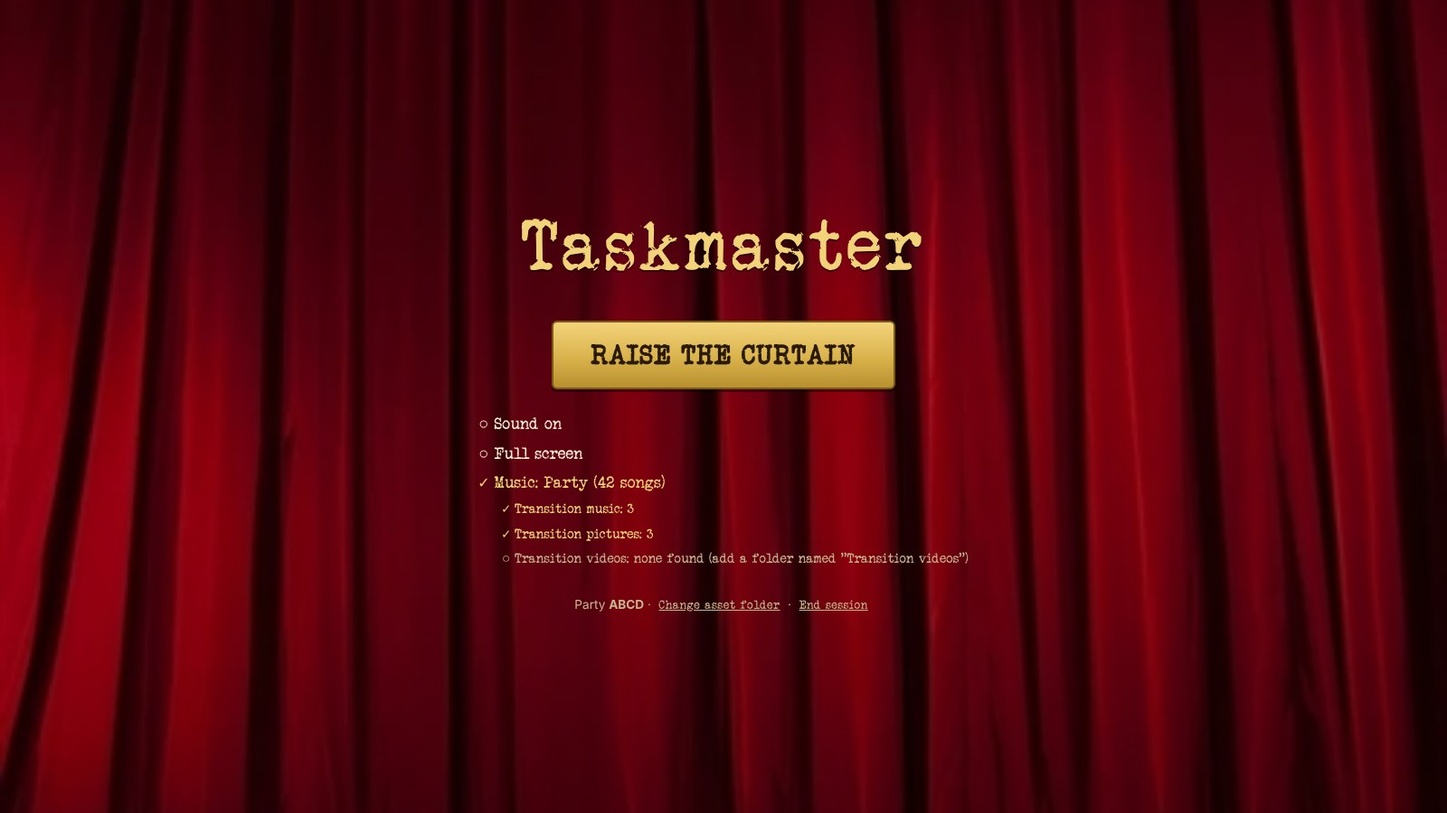
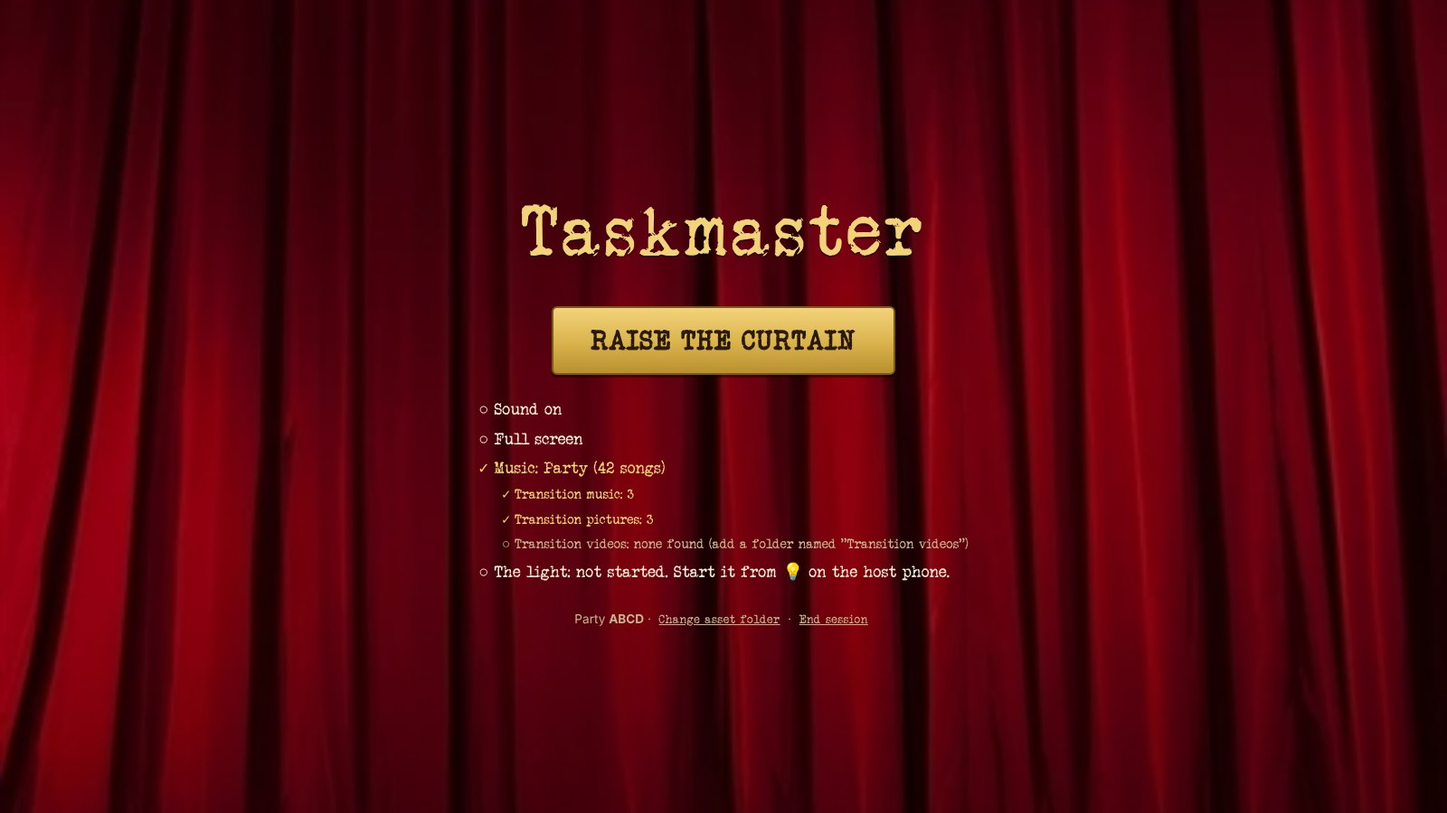
Show the light on Raise the curtain, and let the big screen take over from a closed /light page
- Raise the curtain gets a line for the light at every party: running here (with its
  camera and lamp), on another computer, what's wrong, or not started. It never holds
  up the curtain.
- A /light page that held the light and was closed without Stop left the phone saying
  "the light computer isn't responding", with no way to start it on the big screen.
  Now it says the page has closed and offers "Run it on the big screen instead" (no
  switch or test until then).
- The big screen reports the picked camera's name while the camera is off, so the
  ready line and the gate name it before the light first goes on.
- Start always opens the checklist on the camera step (it could open on the lamp step
  after an earlier "fix it here").
- light-test.mjs covers the left-over case; screenshots and docs.

Claude-Session: https://claude.ai/code/session_01Qb5bZeRA8brS67vtHnPicD

Changed region(s): [[0.3125, 0.3733, 0.6875, 0.7778], [0.3438, 0.2489, 0.6562, 0.3422]]

diff --git a/docs/guest-shots/shots.tsx b/docs/guest-shots/shots.tsx
@@ -197,8 +197,13 @@ function build() {
       break;
     // Up next is a live task that opens with a sting: tasks 1 to 5 scored, the main screen's Transitions list published.
     // The gate after a refresh mid-party, the music folder (Party) already allowed: songs and each transition folder counted.
-    case "tv-gate": {
+    case "tv-gate": case "tv-gate-light": {
       picked(); set("begun", true); set("controllerUid", "host");
+      // The light started from the phone earlier, so the gate says it's running here.
+      if (shot === "tv-gate-light") {
+        set("lightUid", "owner");
+        set("light", { onStage: true, camera: { off: true }, stage: { cameras: [{ id: "c920", label: "Logitech C920" }], cameraId: "c920", hue: { bridge: "192.168.1.50", lamps: [{ id: "1", name: "Living room", color: true }], chosen: { 1: true } } } });
+      }
       const dir = { kind: "directory", name: "Party", values: async function* () {}, queryPermission: async () => "granted" };
       if (!("showDirectoryPicker" in window)) (window as unknown as Record<string, unknown>).showDirectoryPicker = () => Promise.resolve(dir);
       const get = IDBObjectStore.prototype.get;
@@ -338,9 +343,11 @@ function build() {
       set("light", { armed: true, trigger: "stop-smiling", litAt: 1, got: { sam: 1, priya: 2 }, camera: { people: 6, each: { "stop-smiling": 2 } } });
       break;
     // The light run by the big screen, set up from the host's 💡 page: not started, the camera and lamp checklist, then ready.
-    case "host-light-start": case "host-light-camera": case "host-light-lamp": case "host-light-ready": case "host-light-flash": case "host-light-trouble": case "host-light-trouble-fix":
+    case "host-light-start": case "host-light-camera": case "host-light-lamp": case "host-light-ready": case "host-light-flash": case "host-light-trouble": case "host-light-trouble-fix": case "host-light-left-over":
       picked(); set("begun", true);
       if (shot === "host-light-start") break;
+      // A /light page ran the light earlier and was closed without Stop: its slot is left, with no camera status.
+      if (shot === "host-light-left-over") { set("lightUid", "old-pc"); set("light", { trigger: "stop-smiling" }); break; }
       const trouble = shot.startsWith("host-light-trouble");
       set("lightUid", "owner");
       set("light", {
@@ -412,5 +419,5 @@ const allBulbs = MODES.find((m) => m.id === "all")!.bulbs;
 if (shot === "host-light-flash") window.setTimeout(() => void lightNow(CODE), 1200);
 root.render(shot === "tv-light" ? <main className="stage light-stage"><div className="light-show"><Bulb lit /></div></main> :
   shot === "tv-light-all" ? <main className="stage light-stage"><div className="light-show"><div className="light-bulbs" style={{ gridTemplateColumns: "repeat(3, auto)" }}>
-    {allBulbs.map((b) => <Bulb key={b.trigger.id} lit={b.trigger.id === "stop-smiling" || b.trigger.id === "arm-up"} colour={b.colour} />)}</div></div></main> : shot === "tv-gate" ? <StageGate code={CODE} session={session as unknown as Session} onRaised={() => {}} onEnd={() => {}} /> : shot.startsWith("tv-") ? <Screen code={CODE} session={session as unknown as Session} viewOnly /> : shot.startsWith("host-") || shot.startsWith("start-host") ? <HostPage /> :
+    {allBulbs.map((b) => <Bulb key={b.trigger.id} lit={b.trigger.id === "stop-smiling" || b.trigger.id === "arm-up"} colour={b.colour} />)}</div></div></main> : shot.startsWith("tv-gate") ? <StageGate code={CODE} session={session as unknown as Session} onRaised={() => {}} onEnd={() => {}} /> : shot.startsWith("tv-") ? <Screen code={CODE} session={session as unknown as Session} viewOnly /> : shot.startsWith("host-") || shot.startsWith("start-host") ? <HostPage /> :
   shot === "alone-convert" ? <ConverterPage /> : <Play />);

diff --git a/src/light/LightRemote.tsx b/src/light/LightRemote.tsx
@@ -5,7 +5,7 @@ import { ordinal, pointsForPlace, workOut } from "../scoreboard/measured";
 import type { Session } from "../types";
 import { PUBLIC_URL } from "../firebase";
 import {
-  DELAY_MS, cameraText, gotOrder, isArmed, lightAllNow, lightLater, lightNow, lightOf, lightOneLater, markGot, modeOf, moveGot, releaseLight, setArmed,
+  DELAY_MS, cameraText, gotOrder, isArmed, lightAllNow, lightLater, lightNow, lightOf, lightOneLater, lightPageGone, markGot, modeOf, moveGot, moveToStage, releaseLight, setArmed,
   setMode, setSetup, setTrigger, startOnStage, triggerOf, unmarkGot,
 } from "./data";
 import { ReadyLine, type SetupStep, StageSetup, TroubleLine } from "./StageSetup";
@@ -44,6 +44,8 @@ export function LightRemote({ code, session }: { code: string; session: Session 
   const [changing, setChanging] = useState(false);
 
   const onStage = light.onStage === true;
+  // Nothing is running it, so no switch or test until it moves to the big screen (or /light opens again).
+  const gone = lightPageGone(session);
   // Which part of the big screen's checklist opens: the camera, or straight to the lamp to fix it.
   const [setupStep, setSetupStep] = useState<SetupStep>("camera");
   const openSetup = (step: SetupStep) => { setSetupStep(step); void setSetup(code, true); };
@@ -71,17 +73,26 @@ export function LightRemote({ code, session }: { code: string; session: Session 
           // Not started: where it runs, then the one thing to do. The switch comes once there's something to switch.
           <>
             <p>Not started. It runs on the big screen's computer, out of sight: its webcam watches the room and the Hue lamp flashes. Nothing shows on the TV.</p>
-            <button className="big" onClick={() => void startOnStage(code)}>Start the light</button>
+            <button className="big" onClick={() => { setSetupStep("camera"); void startOnStage(code); }}>Start the light</button>
             <p className="muted small">Webcam on another computer? Open <strong>{site}/light</strong> there instead.</p>
           </>
         )
       ) : (
         <>
           {/* On or off, and what the camera sees: what the host checks during the evening. Off means the camera is off too. */}
-          <div className="toggles">
-            <Toggle label="Light on" on={armed} onChange={(on) => void setArmed(code, on)} />
-          </div>
+          {!gone && (
+            <div className="toggles">
+              <Toggle label="Light on" on={armed} onChange={(on) => void setArmed(code, on)} />
+            </div>
+          )}
           <p>{cameraText(session)}</p>
+          {/* The light was last run from /light, and that page is gone: the big screen can take it over. */}
+          {gone && (
+            <>
+              <button className="big" onClick={() => { setSetupStep("camera"); void moveToStage(code); }}>Run it on the big screen instead</button>
+              <p className="muted small">Or open <strong>{site}/light</strong> on that computer again.</p>
+            </>
+          )}
           {onStage && <TroubleLine session={session} onFix={openSetup} />}
           {onStage && <ReadyLine session={session} onSetUp={() => openSetup("camera")} />}
         </>
@@ -146,7 +157,7 @@ export function LightRemote({ code, session }: { code: string; session: Session 
       <GotIt code={code} session={session} />
 
       {/* Safe only while guests aren't watching: a test mid-game would throw off their guesses. */}
-      {running && !onStage && !armed && <button onClick={() => mode ? lightAllNow(code, mode) : void lightNow(code)}>Test the light</button>}
+      {running && !onStage && !gone && !armed && <button onClick={() => mode ? lightAllNow(code, mode) : void lightNow(code)}>Test the light</button>}
     </section>
   );
 }

diff --git a/src/StageGate.tsx b/src/StageGate.tsx
@@ -4,6 +4,8 @@ import { hostUrlFor } from "./firebase";
 import { type DirHandle, folderPickerSupported, hasAccess, pickFolder, recallFolder, rememberFolder, requestAccess } from "./musicFolder";
 import type { Session } from "./types";
 import { skippedStingPictures } from "./stingPictures";
+import { isArmed, lightOf, lightPageGone, runsOnStage } from "./light/data";
+import { stageParts } from "./light/StageSetup";
 
 /** Tells the jukebox a music folder can now be read, so it loads it. */
 export const MUSIC_READY = "taskmaster:music-ready";
@@ -97,6 +99,7 @@ export function StageGate({ code, session, onRaised, onEnd }: {
           const n = list ? Object.keys(list).length : 0;
           return <li key={name} className={`gate-sub ${n ? "done" : "failed"}`}>{n ? "✓" : "○"} {name}: {n || `none found (add a folder named "${name}")`}{name === "Transition pictures" && skippedStingPictures().length > 0 && ` · couldn't read ${skippedStingPictures().join(", ")}`}</li>;
         })}
+        <LightCheck session={session} />
       </ul>
       {tried && (full === "failed" || music === "failed") && (
         <button className="link" onClick={onRaised}>Raise it anyway</button>
@@ -114,4 +117,22 @@ export function StageGate({ code, session, onRaised, onEnd }: {
       </p>
     </main>
   );
+}
+
+/**
+ * The light, on the main screen's checklist: running here out of sight (and with what), on a /light computer,
+ * in trouble, or not started yet, at every party. It never holds up raising the curtain: it starts from the
+ * host phone's 💡.
+ */
+function LightCheck({ session }: { session: Session }) {
+  const light = lightOf(session);
+  if (!session.lightUid) return <li className="todo">○ The light: not started. Start it from 💡 on the host phone.</li>;
+  if (!runsOnStage(session)) {
+    return lightPageGone(session)
+      ? <li className="failed">○ The light: its /light page has closed. Run it here from 💡 on the host phone.</li>
+      : <li className="done">✓ The light: on another computer</li>;
+  }
+  if (light.stage?.hue?.error) return <li className="failed">○ The light: the Hue lamp isn't responding. Fix it from 💡 on the host phone.</li>;
+  if (isArmed(light) && light.camera?.error) return <li className="failed">○ The light: camera: {light.camera.error}</li>;
+  return <li className="done">✓ The light: running here, out of sight · {stageParts(session).join(" · ")}</li>;
 }

diff --git a/src/light/data.ts b/src/light/data.ts
@@ -107,6 +107,16 @@ export const releaseLight = (code: string) => update(ref(db(), `sessions/${code}
 
 /** The host phone starting the light on the main screen, with the setup checklist open. */
 export const startOnStage = (code: string) => update(ref(db(), `sessions/${code}/light`), { onStage: true, setup: true });
+/**
+ * The host moving the light to the main screen when the /light computer running it has gone (its page closed
+ * without "Stop the light"): its slot is freed and the main screen starts it, with the setup checklist open.
+ */
+export const moveToStage = (code: string) => update(ref(db(), `sessions/${code}`), {
+  lightUid: null, "light/camera": null, "light/onStage": true, "light/setup": true,
+});
+/** A /light computer holds the light's slot, but its page has closed (the camera's status went with it). */
+export const lightPageGone = (session: Session) => !!session.lightUid && lightOf(session).onStage !== true && !lightOf(session).camera;
+
 /** The phone's setup checklist opening or closing (the main screen then sends where it finds heads, or stops). */
 export const setSetup = (code: string, open: boolean) => set(path(code, "setup"), open || null);
 /** Asks the main screen to change its camera or Hue lamp (kept in its browser), or to flash the lamp. */
@@ -199,7 +209,7 @@ export function cameraText(session: Session): string {
   const light = lightOf(session);
   const camera = light.camera;
   if (!session.lightUid) return `Not running. Open ${PUBLIC_URL.replace(/^https?:\/\//, "")}/light on the computer with the webcam.`;
-  if (!camera) return runsOnStage(session) ? "The big screen isn't responding. Check that it's still open." : "The light computer isn't responding. Check that its /light page is still open.";
+  if (!camera) return runsOnStage(session) ? "The big screen isn't responding. Check that it's still open." : "The /light page that was running the light has closed.";
   if (!isArmed(light)) return "Off. The camera isn't watching.";
   if (camera.error) return `Camera: ${camera.error}`;
   if (camera.starting || camera.off) return "Camera starting…";

diff --git a/src/light/StageSetup.tsx b/src/light/StageSetup.tsx
@@ -130,14 +130,18 @@ export function StageSetup({ code, session, start = "camera" }: { code: string; 
 
 /** Under the light's switch, once it runs on the big screen: what it's using, and the way back to the checklist. */
 export function ReadyLine({ session, onSetUp }: { session: Session; onSetUp: () => void }) {
-  const hue = lightOf(session).stage?.hue;
-  const lamps = (hue?.lamps ?? []).filter((l) => hue?.chosen?.[l.id]).map((l) => l.name).join(", ");
-  const parts = [cameraLabel(session), lamps ? `Hue lamp: ${lamps}` : "no Hue lamp"].filter(Boolean);
   return (
     <p className="muted small">
-      Ready on the big screen's computer: {parts.join(" · ")} · <button className="link" onClick={onSetUp}>Set up</button>
+      Ready on the big screen's computer: {stageParts(session).join(" · ")} · <button className="link" onClick={onSetUp}>Set up</button>
     </p>
   );
+}
+
+/** What the big screen is running the light with: its camera's name (once it has said) and its Hue lamps. */
+export function stageParts(session: Session): string[] {
+  const hue = lightOf(session).stage?.hue;
+  const lamps = (hue?.lamps ?? []).filter((l) => hue?.chosen?.[l.id]).map((l) => l.name).join(", ");
+  return [cameraLabel(session), lamps ? `Hue lamp: ${lamps}` : "no Hue lamp"].filter((p): p is string => !!p);
 }
 
 /** The name of the camera the big screen is using, once it has said. */

diff --git a/src/light/StageLight.tsx b/src/light/StageLight.tsx
@@ -125,7 +125,8 @@ function Running({ code, session }: { code: string; session: Session }) {
   // What this browser has, for the phone's checklist (only written when it changes).
   const info: StageLightInfo = {
     ...(cameras?.length && { cameras }),
-    ...(feed.stream?.getVideoTracks()[0]?.getSettings().deviceId && { cameraId: feed.stream.getVideoTracks()[0]!.getSettings().deviceId }),
+    // The camera in use, or (while it's off) the one picked, so its name shows before the light first goes on.
+    ...((feed.stream?.getVideoTracks()[0]?.getSettings().deviceId ?? settings.deviceId) && { cameraId: feed.stream?.getVideoTracks()[0]?.getSettings().deviceId ?? settings.deviceId }),
     ...((settings.processor === "cpu" || feed.runsOn === "CPU") && { cpu: true }),
     ...(setup && heads.length && { heads }),
     hue: {

diff --git a/docs/guest-shots/light-test.tsx b/docs/guest-shots/light-test.tsx
@@ -54,6 +54,8 @@ Object.assign(window, {
     flash: () => lightNow(CODE),
     stop: () => releaseLight(CODE),
     hueLog,
+    // A /light computer's slot, its page long closed (no camera status).
+    leftOver: () => set(ref(db(), `sessions/${CODE}/lightUid`), "old-pc"),
     bridgeDown: (down: boolean) => { bridge.down = down; },
   },
 });

diff --git a/docs/style-guide.md b/docs/style-guide.md
@@ -75,7 +75,7 @@ Contrast note: `--muted` is for the dark backdrop only. On paper, use `#7a6a55` 
 - **Points chips** (`.choices.marks.sb-chips`): a contestant's points on the scoreboard, "1 2 3 4 5" after the DQ chip, one line per contestant. There's no typed-in number: points typed before the bonus (0, 6, 2.5) still count and show as one more pressed chip until tapped away. The picked chip is pressed in like a mark. A DQ'd contestant's points stay on their chip, struck through and faded (`.was`); a **dashed** chip (`.before`) is what someone had before a DQ moved them up, explained by a key under the list. DQ is only ever on the host's screens.
 - **Bonus chip** (`.choices.marks.sb-bonus`): "+1" at the far end of every points row, by hand or measured, the DQ chip's size. Bonus points on top of whatever they scored: each tap goes "+1", "+2", then none, pressed in (and reading "+1" or "+2") while they have them. It sits apart from the 1–5 chips so it doesn't read as a sixth score, and at the end because it goes on top of the score, where DQ sits by the name because it's about the person. A DQ keeps the bonus. "now N" includes it and the status line adds them up ("3 of 6 scored · 3 bonus points"). The big screen only shows totals. See: [scoreboard-host-points.jpg](screens/scoreboard-host-points.jpg).
 - **Measured rows** (`.sb-measured`): the DQ chip by the name, a number box per contestant, the unit (or Noisemaster's "↺ 2") after it, the points over the place ("4" over "2nd") as a quiet button that opens the points chips (1 to 5), then the bonus chip. On a phone the gaps are tight (0.35rem) so a Noisemaster time still fits its box. One subgrid, so the columns line up. A point set by hand carries a small ✎; a small dashed number beside the points is the one before a DQ. A DQ'd row strikes its number through; one a dB task's DQ line made says "over 60" under its 0 instead of "DQ". On a lowest-wins dB task, a small LO chip (`.sb-lo`) opens under the box while it's typed in, for the meter's LO (see [scoreboard-host-points-db-dq.jpg](screens/scoreboard-host-points-db-dq.jpg), [scoreboard-host-points-db-lo.jpg](screens/scoreboard-host-points-db-lo.jpg)). On a wide iPad the name column fits the longest name and the box keeps a fixed width, so DQ and the points stay by the name. The light's page has "got it 2nd" or a muted "not yet" (`.sb-got`) where the box goes, since its order is marked on 💡, and a "Change the order on 💡 The light" link under the rows. See: [scoreboard-host-points-light.jpg](screens/scoreboard-host-points-light.jpg).
-- **The light's setup** (`StageSetup.tsx`): when the light runs on the big screen's computer, the 💡 page sets it up. Not started: one line on where it runs and that nothing shows on the TV, a gold "Start the light", and a muted line keeping `/light` for a webcam on another computer; no switch until there's something to switch ([light-host-start.jpg](screens/light-host-start.jpg)). Started: the `/light` checklist (`.gate-checks`) moved to the phone, "✓ Camera: Logitech C920, sees 1 person" then "○ Hue lamp". The camera step draws the heads it finds on an empty `.camera-preview` (positions only, never the picture), "Which camera" as `.choices.two`, a quiet "Run it on the processor" link, and gold "Next: the Hue lamp" ([light-host-camera.jpg](screens/light-host-camera.jpg)). The lamp step: the lamps as `.choices.two`, gold "Flash the lamp" (the only test; there's no "Test the light" during the evening), then a paper "Done: the light is ready" ([light-host-lamp.jpg](screens/light-host-lamp.jpg)). Once done, the page is the evening's: the "Light on" switch, the status line, and a muted "Ready on the big screen's computer: Logitech C920 · Hue lamp: Living room · Set up" ([light-host-ready.jpg](screens/light-host-ready.jpg)). When it needs the host mid-party, 💡 gets the alert dot and one `.error` line under the status line names the part, what happened and what to do, with a link into that step: "The Hue lamp isn't responding: couldn't reach the bridge. Check the lamp is switched on at the wall, then fix it here." ([light-host-trouble.jpg](screens/light-host-trouble.jpg)). Everything else stays put. While the light is on, the lamp step has no "Flash the lamp", only "Switch the light off to test the lamp: a flash now would look like a clue.", and a lamp that isn't answering shows "○ Hue lamp: Living room, not responding" ([light-host-trouble-fix.jpg](screens/light-host-trouble-fix.jpg)). Errors on the phone's curtain are `.error`, never `/light`'s paper-panel `.hue-error`.
+- **The light's setup** (`StageSetup.tsx`): when the light runs on the big screen's computer, the 💡 page sets it up. Not started: one line on where it runs and that nothing shows on the TV, a gold "Start the light", and a muted line keeping `/light` for a webcam on another computer; no switch until there's something to switch ([light-host-start.jpg](screens/light-host-start.jpg)). Started: the `/light` checklist (`.gate-checks`) moved to the phone, "✓ Camera: Logitech C920, sees 1 person" then "○ Hue lamp". The camera step draws the heads it finds on an empty `.camera-preview` (positions only, never the picture), "Which camera" as `.choices.two`, a quiet "Run it on the processor" link, and gold "Next: the Hue lamp" ([light-host-camera.jpg](screens/light-host-camera.jpg)). The lamp step: the lamps as `.choices.two`, gold "Flash the lamp" (the only test; there's no "Test the light" during the evening), then a paper "Done: the light is ready" ([light-host-lamp.jpg](screens/light-host-lamp.jpg)). Once done, the page is the evening's: the "Light on" switch, the status line, and a muted "Ready on the big screen's computer: Logitech C920 · Hue lamp: Living room · Set up" ([light-host-ready.jpg](screens/light-host-ready.jpg)). When it needs the host mid-party, 💡 gets the alert dot and one `.error` line under the status line names the part, what happened and what to do, with a link into that step: "The Hue lamp isn't responding: couldn't reach the bridge. Check the lamp is switched on at the wall, then fix it here." ([light-host-trouble.jpg](screens/light-host-trouble.jpg)). Everything else stays put. While the light is on, the lamp step has no "Flash the lamp", only "Switch the light off to test the lamp: a flash now would look like a clue.", and a lamp that isn't answering shows "○ Hue lamp: Living room, not responding" ([light-host-trouble-fix.jpg](screens/light-host-trouble-fix.jpg)). Errors on the phone's curtain are `.error`, never `/light`'s paper-panel `.hue-error`. If a `/light` page that held the light has closed without Stop, the page says so and offers a gold "Run it on the big screen instead" (no switch, no test), with a muted line to reopen `/light` instead ([light-host-left-over.jpg](screens/light-host-left-over.jpg)). The big screen's own Raise the curtain checklist always has a line for the light, at every party: "✓ The light: running here, out of sight · Logitech C920 · Hue lamp: Living room", "✓ The light: on another computer", "○" with what's wrong, or "○ The light: not started. Start it from 💡 on the host phone."; it never holds up the curtain ([main-gate-light.jpg](screens/main-gate-light.jpg)).
 - **"Got it" list** (`.light-got`, `GotIt` in `LightRemote.tsx`): on the 💡 page, who has worked out the light's secret, in the order the host tapped them. A row per guesser, "2nd Priya 4 pts", the points in `--gold-bright` so the host can read them out. Under it a paper chip per contestant, alphabetical; tapping one adds them as the next place. Someone on the list keeps their chip in the same spot, dimmed (0.55) with a ✓, so the names never move. Tapping a row or a dimmed chip opens the row: the places as `.choices.marks` (the current one pressed in) to move them, and "Take Tom off the list". While the light is on the task list the points are the scoreboard's, and a DQ there strikes the name through with "DQ" for the points; until then a muted line says the points aren't on the scoreboard, with an "Add it" link (Noisemaster's done line has the same nudge). See: [host-light-got-it.jpg](screens/host-light-got-it.jpg), [host-light-got-it-fix.jpg](screens/host-light-got-it-fix.jpg), [host-light-got-it-dq.jpg](screens/host-light-got-it-dq.jpg), [noisemaster-host-kept.jpg](screens/noisemaster-host-kept.jpg).
 - **Link** (`.link`): no chrome, `--muted`, underlined. For quiet or escape actions: Not Alex? Not the right party?, Disconnect, End session, Lower the curtain, Reset. Only the words are underlined: a link that starts with an icon ("📤 Send yourself the host link", "🎲 Pick at random", "✕ Remove this part") wraps the icon in `<span className="link-icon">`, which keeps the underline off it.
 - **Icon button** (`.picker .x`, `.picker .lock`): a small paper square next to a row. Always give it an `aria-label`.

diff --git a/README.md b/README.md
@@ -47,7 +47,7 @@ In Before & After and Photos a submission locks until the host unlocks that play
 ## The light
 A running puzzle for the whole evening, after the Taskmaster task: a red light bulb goes on for a second, seemingly at random, and the players have to work out why. The secret: it goes on **2 seconds after anyone does the trigger** the host has picked: stops smiling (the original), starts smiling, raises their eyebrows, opens their mouth wide, raises an arm, lowers an arm, or touches their face. The arm and face-touch triggers need the camera to see people's arms and shoulders, not just faces. Faces are found across the room by first finding each person's body, then reading a close-up of their head (the face detector on its own only finds faces within a metre or two); the camera is asked for 1080p for that. The Camera panel's preview outlines each head: solid green where the face is read, dashed where only the head is found. In **Smiles** mode (picked on the host phone) `/light` shows two bulbs: green 2 seconds after someone starts smiling, red 2 seconds after someone stops. In **All at once** mode the camera watches for every trigger together, and `/light` shows a bulb per trigger, each in its own colour (in rainbow order: red: stops smiling, orange: raises eyebrows, yellow: touches their face, green: starts smiling, blue: raises an arm, violet: lowers an arm; green and red mean the same as in Smiles). Opening your mouth wide has no bulb of its own there: it sends the light spinning twice round all six bulbs in a rainbow (the Hue lamp follows the lit bulb's colour as fast as the bridge allows; the 0.5 s rule doesn't apply inside a spin), and the spin wins over plain flashes while it lasts, with no labels; the players have to work out which action lights which colour. Modes are listed in `MODES` in `src/light/triggers.ts`. In every mode each flash comes on 2 seconds after its action, for a second; when flashes overlap, the newest wins. The light (and the Hue lamp with it) never changes more often than every 0.5 seconds: a change that comes sooner waits for the rest of that half-second, so nothing is ever more than 0.5 s late, and one that's overtaken by a newer flash meanwhile is skipped.
 
-- **Start it from the host phone (usually):** on 💡, tap **Start the light**. The big screen's computer runs it out of sight, with its webcam and Hue lamp: nothing shows on the TV, and since the main screen is always the window in front, the camera never slows down. The phone then walks through a checklist: which camera (with the heads it finds drawn on an empty frame; the picture never leaves that computer), and the Hue lamp (pick the lamps, **Flash the lamp** to test, or pair a new bridge from the phone). The camera and the bridge's key stay in the big screen's browser; the phone asks it for each change. The browser there asks once for the camera, and pairing a bridge may need its Local Network permission or certificate (below). After that it stays off until **Light on**, comes back by itself if the big screen reloads, and the 💡 icon pulses in the bulb's colour for each flash so the host knows it went. If the lamp stops answering (or the camera fails) mid-party, 💡 gets its alert dot and the page says which and what to do, with a link straight to that step; the lamp can only be test-flashed while the light is off, so a test never looks like a clue. **Stop the light on the big screen** is in Party settings.
+- **Start it from the host phone (usually):** on 💡, tap **Start the light**. The big screen's computer runs it out of sight, with its webcam and Hue lamp: nothing shows on the TV, and since the main screen is always the window in front, the camera never slows down. The phone then walks through a checklist: which camera (with the heads it finds drawn on an empty frame; the picture never leaves that computer), and the Hue lamp (pick the lamps, **Flash the lamp** to test, or pair a new bridge from the phone). The camera and the bridge's key stay in the big screen's browser; the phone asks it for each change. The browser there asks once for the camera, and pairing a bridge may need its Local Network permission or certificate (below). After that it stays off until **Light on**, comes back by itself if the big screen reloads, and the 💡 icon pulses in the bulb's colour for each flash so the host knows it went. If the lamp stops answering (or the camera fails) mid-party, 💡 gets its alert dot and the page says which and what to do, with a link straight to that step; the lamp can only be test-flashed while the light is off, so a test never looks like a clue. The big screen's Raise the curtain checklist shows whether the light is running there (and with which camera and lamp), or not started yet. If a `/light` page that was running the light got closed without Stop, the host phone offers **Run it on the big screen instead**. **Stop the light on the big screen** is in Party settings.
 - **Or on another computer:** on a computer with a webcam that can see everyone, open `/light` (the main screen's lobby links to it) and enter the session code. The page shows just the bulb, since players may see it; its status and buttons (Hue lamp, Light it now, Pause, Stop the light) appear only while the mouse moves, and never show counts. Keep that window open and in front all evening: Chrome slows down background tabs and minimised or fully covered windows, and the light then misses things (the host phone warns when that happens). The page keeps the screen awake. One computer runs the light per session. If it finds nobody (common on Windows), move the mouse and click **Camera**: it shows a preview with how many people it finds (only while that panel is open), lets you pick the camera (until you do, it skips virtual cameras such as DroidCam, OBS or anything named "Virtual", and Windows Hello's infrared camera; the list is `NOT_A_WEBCAM` in `src/light/CameraSetup.tsx`), and can run the detection on the processor instead of the graphics card (some graphics drivers run it but find nothing). Those choices are kept in that browser.
 - **Host phone:** the **💡 The light** section (on every view) is where the host picks the secret trigger, and shows how many people the camera sees and how many are "in" (e.g. smiling). It has **Light in 2 s** (for something the camera missed), **Light it now** (a test), **Pause camera** and **Reset the light computer** (so another computer can take over).
 - **Privacy:** detection ([MediaPipe](https://ai.google.dev/edge/mediapipe/solutions/guide) face and pose landmarkers, models in `src/assets/light/`) runs in the light computer's browser; the picture is never shown, saved or uploaded. Only the counts go into the session. MediaPipe itself sends Google anonymous usage statistics (speed, frame counts, OS) about once a minute. Triggers are defined in `src/light/triggers.ts`; [docs/light-signals.md](docs/light-signals.md) lists everything the camera can detect, for picking new ones.

diff --git a/docs/screens/README.md b/docs/screens/README.md
@@ -50,7 +50,8 @@ Guest phone (`/play`, 390px wide), redrawn on 2026-10-18 in the host remote's la
 | `main-noisemaster.jpg` | Noisemaster on the big screen mid-go: the words said so far as gold tiles, the red board with the last button lit green, the player's name, the clock, "2 of 4 words" and "1 restart" (2026-10-18) |
 | `main-noisemaster-done.jpg` | Noisemaster on the big screen when the go is finished: all four words as gold tiles, the clock stopped at 0:41.3, "4 of 4 words", "2 restarts" and the ✓ Done stamp (2026-10-21) |
 | `main-sting.jpg` | The big screen just after Start on Dice tower: the task's transition picture edge to edge on black, shown whole, no frame or corner code, while its music plays (2026-10-22) |
-| `main-gate-transitions.jpg` | The gate after a refresh: under "✓ Music: Party (42 songs)", a smaller line for each transition folder, "✓ Transition music: 3", "✓ Transition pictures: 3", and "○ Transition videos: none found (add a folder named "Transition videos")" for a folder that's missing or empty (muted) (2026-10-22) |
+| `main-gate-transitions.jpg` | The gate after a refresh: under "✓ Music: Party (42 songs)", a smaller line for each transition folder, "✓ Transition music: 3", "✓ Transition pictures: 3", and "○ Transition videos: none found (add a folder named "Transition videos")" for a folder that's missing or empty (muted), then "○ The light: not started. Start it from 💡 on the host phone." (2026-10-24) |
+| `main-gate-light.jpg` | The same gate with the light started from the host phone: "✓ The light: running here, out of sight · Logitech C920 · Hue lamp: Living room" (2026-10-24) |
 | `noisemaster-host-round.jpg` | The host phone's Noisemaster page mid-go, whole page: "Sam at the soundboard", the clock, the board with its words, Restart and Next round, Points below (2026-10-21) |
 | `noisemaster-host-setup.jpg` | The host phone's Noisemaster page before a go, whole page: Sam picked, "I am the Noisemaster" typed as the phrase, twelve decoys, "16 different words." and the gold Start Noisemaster (no sound files, so the main screen says the words) (2026-10-21) |
 | `run-of-show-host.jpg` | Host phone: the Run of show, "Show QR" by the code, "Show scores" and "Show rules" under the big-screen line, the "Up next" card with the gold Start button and "app task" on the card, and all eight tasks (party ABCD, 2026-10-19) |
@@ -322,6 +323,7 @@ The task pages (taken on 2026-10-21 from the ABCD party with `docs/guest-shots`,
 | `light-host-lamp.jpg` | The lamp step: the bridge at 192.168.1.50, Living room picked of three lamps, gold "Flash the lamp", paper "Done: the light is ready" (2026-10-24) |
 | `light-host-ready.jpg` | Ready: the "Light on" switch (off), "Off. The camera isn't watching.", "Ready on the big screen's computer: Logitech C920 · Hue lamp: Living room · Set up", the secret and Got it (2026-10-24) |
 | `light-host-flash.jpg` | The host's header during a flash: 💡 filled and glowing red for the second the lamp is on (2026-10-24) |
+| `light-host-left-over.jpg` | A /light page ran the light and was closed without Stop: "The /light page that was running the light has closed.", gold "Run it on the big screen instead", "Or open …/light on that computer again.", no switch or test (2026-10-24) |
 | `light-host-trouble.jpg` | The lamp dropped mid-game, light on: 💡 with the alert dot, "The Hue lamp isn't responding: couldn't reach the bridge. Check the lamp is switched on at the wall, then fix it here.", Sam 1st and Priya 2nd still on Got it (2026-10-24) |
 | `light-host-trouble-fix.jpg` | "fix it here" opened: the lamp step with "○ Hue lamp: Living room, not responding", "Switch the light off to test the lamp…" instead of Flash the lamp, and the bridge's error (2026-10-24) |
 | `light-host-got-it.jpg` | The host's 💡 page with the light on: "Camera sees 6 people, 2 smiling.", "Light it in 2 s", the secret, and Got it: Sam 1st 5 pts, Priya 2nd 4 pts |
